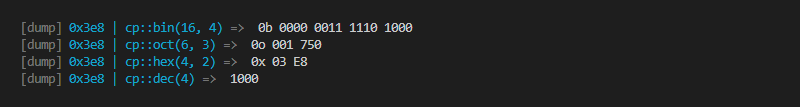
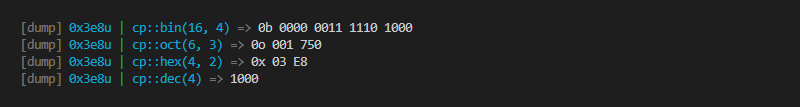
Improve README.md (#89)
* improve README.md

* update test

diff --git a/readme/formatting-with-manipulators.cpp b/readme/formatting-with-manipulators.cpp
@@ -32,10 +32,10 @@ int main() {
 
   std::clog << "\n// manipulator-int-style.png\n" << std::endl;
 
-  cpp_dump(0x3e8 | cp::bin(16, 4));
-  cpp_dump(0x3e8 | cp::oct(6, 3));
-  cpp_dump(0x3e8 | cp::hex(4, 2));
-  cpp_dump(0x3e8 | cp::dec(4));
+  cpp_dump(0x3e8u | cp::bin(16, 4));
+  cpp_dump(0x3e8u | cp::oct(6, 3));
+  cpp_dump(0x3e8u | cp::hex(4, 2));
+  cpp_dump(0x3e8u | cp::dec(4));
 
   std::clog << "\n// manipulator-bin-etc.png\n" << std::endl;
 

diff --git a/README.md b/README.md
@@ -676,13 +676,13 @@ See [int_style manipulators](#int_style-manipulators) for details.
 
 ```cpp
 // Show integers in binary, minimum 16 digits, separated by every 4 characters.
-cpp_dump(0x3e8 | cp::bin(16, 4));
+cpp_dump(0x3e8u | cp::bin(16, 4));
 // Show integers in octal, minimum 6 digits, separated by every 3 characters.
-cpp_dump(0x3e8 | cp::oct(6, 3));
+cpp_dump(0x3e8u | cp::oct(6, 3));
 // Show integers in hexadecimal, minimum 4 digits, separated by every 2 characters.
-cpp_dump(0x3e8 | cp::hex(4, 2));
+cpp_dump(0x3e8u | cp::hex(4, 2));
 // Show integers in minimum 4 digits.
-cpp_dump(0x3e8 | cp::dec(4));
+cpp_dump(0x3e8u | cp::dec(4));
 ```
 
 ![manipulator-int-style.png](./readme/manipulator-int-style.png)
